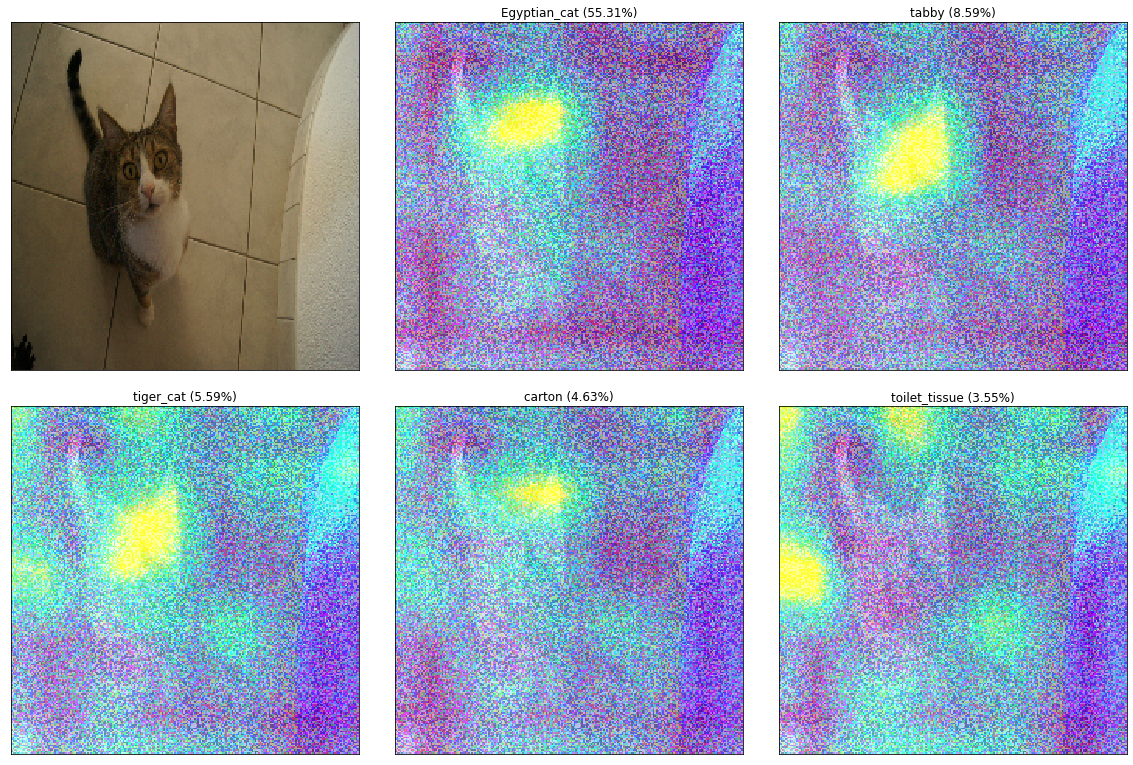
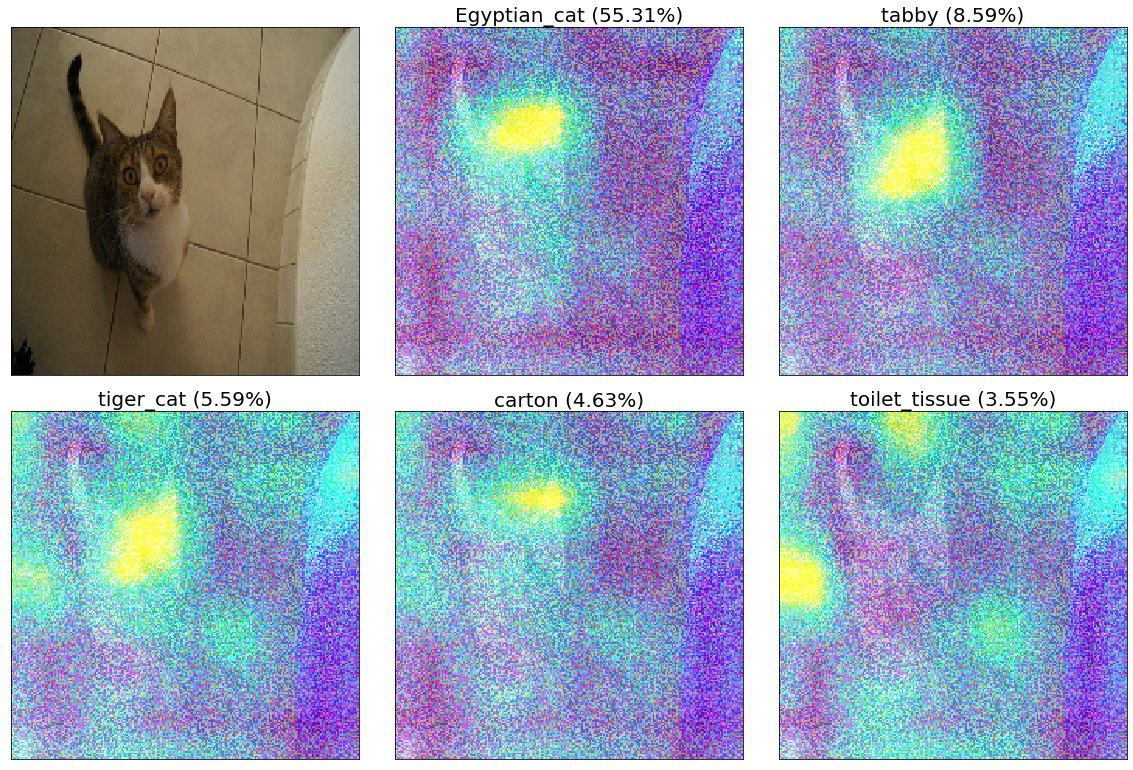
Lime Beispiel hinzugefügt

diff --git a/Dokumentation/MAS-MT-Marc-Habegger.tex b/Dokumentation/MAS-MT-Marc-Habegger.tex
@@ -396,6 +396,7 @@ Eine weitere Variante um relevante Bildbereiche aufzudecken ist Occlusion Sensit
 
 \subsubsection*{Lime}
 \url{https://arxiv.org/abs/1602.04938}
+\includegraphics[width=\textwidth]{Bilder/Lime-Classes.png}
 
 \subsubsection*{TCAV}
 \url{https://github.com/tensorflow/tcav}
@@ -540,7 +541,7 @@ def createImageGrid(imageOrig, predictions, labels, explainer, explainerArgs):
         ax.set_yticks([])
         label = labels[0][i]
         if i >= 0:
-            ax.set_title('%s (%.2f%%)' % (label[1], label[2]*100))
+            ax.set_title('%s (%.2f%%)' % (label[1], label[2]*100), fontsize=20)
         ax.imshow(im)
         i = i + 1
 
@@ -560,6 +561,43 @@ explainer = IntegratedGradients()
 createImageGrid(imageOrig, predictions, labels, explainer, {'model': model, 'validation_data': (np.array([imageArr]), None)})
 \end{lstlisting}
 https://github.com/sicara/tf-explain
+
+\subsection{Visualisierung einer Klassifikation mit lime}
+\url{https://github.com/marcotcr/lime/blob/master/doc/notebooks/Tutorial\%20-\%20Image\%20Classification\%20Keras.ipynb}
+\begin{lstlisting}[language=Python, caption=Visualisiertes Neuronales Netz mit Tensorflow und lime]
+import lime 
+from lime import lime_image
+
+explainer = lime_image.LimeImageExplainer()
+
+
+explanation = explainer.explain_instance(np.vstack([imageArr]), model.predict, top_labels=5, hide_color=0, num_samples=1000)
+
+from skimage.segmentation import mark_boundaries
+
+camImages = [imageOrig]
+fig = plt.figure(figsize=(20., 20.))
+grid = ImageGrid(fig, 111,  # similar to subplot(111)
+             nrows_ncols=(2, 3),
+             axes_pad=0.5,  # pad between axes in inch.
+             )
+for class_index in range(0,5):
+    temp, mask = explanation.get_image_and_mask(explanation.top_labels[class_index], positive_only=True, num_features=5, hide_rest=True)
+    camImages.append(mark_boundaries(temp / 2 + 0.5, mask))
+
+i = -1
+for ax, im in zip(grid, camImages):
+    # Iterating over the grid returns the Axes.
+    ax.set_xticks([])
+    ax.set_yticks([])
+    label = labels[0][i]
+    if i >= 0:
+        ax.set_title('%s (%.2f%%)' % (label[1], label[2]*100))
+    ax.imshow(im)
+    i = i + 1
+
+plt.show()
+\end{lstlisting}
 \appendix
 % List of Figures
 \listoffigures
